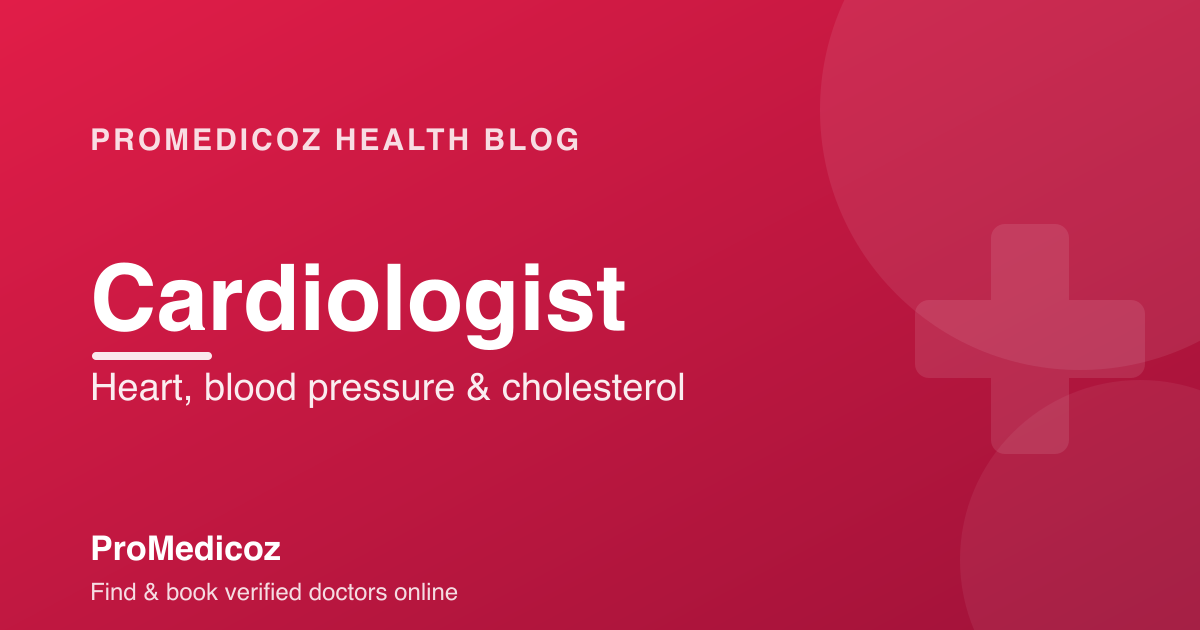
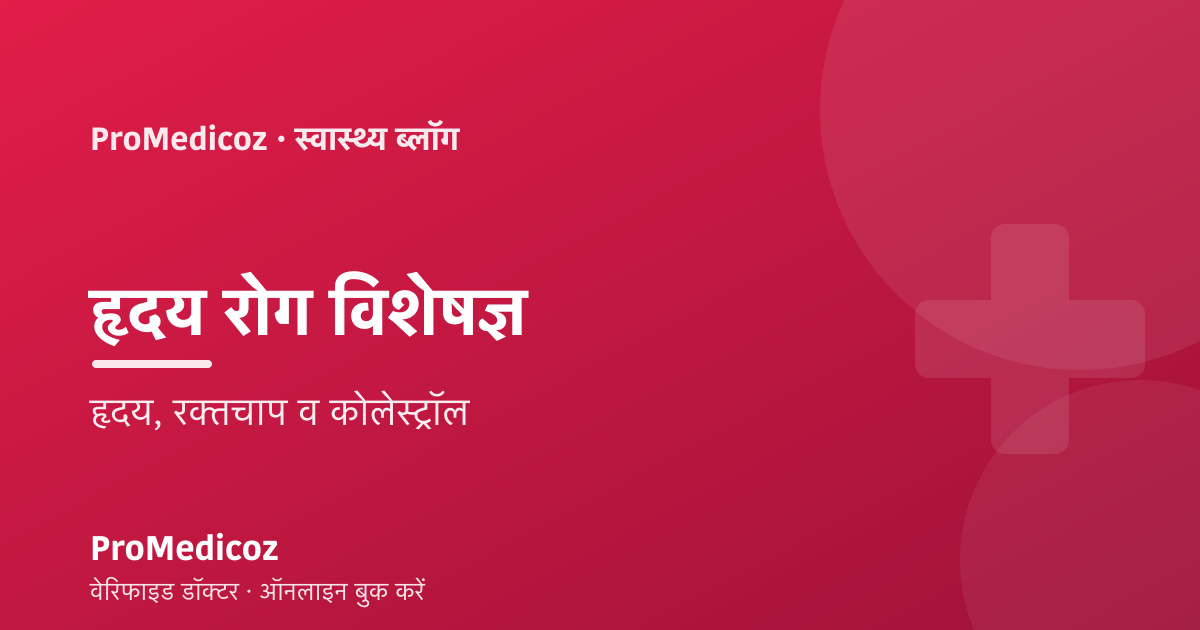
Hindi-first blog share cards + language-aware article share message (Hinglish when reading in Hindi)

Changed region(s): [[0.0617, 0.3921, 0.5858, 0.6937], [0.0617, 0.8444, 0.4008, 0.9651], [0.0617, 0.181, 0.4933, 0.2413]]

diff --git a/client/src/pages/blog/BlogArticle.jsx b/client/src/pages/blog/BlogArticle.jsx
@@ -303,16 +303,26 @@ function BlogArticle() {
   // Share the article (grows reach via word of mouth — the safe alternative
   // to a public comment section on a health blog).
   const articleUrl = `https://www.promedicoz.in/blog/${slug}`;
-  const shareText = article ? `${article.title} — ProMedicoz\n${articleUrl}` : articleUrl;
+  // Hindi-reading users (Hinglish mode) get a warm Hinglish caption so a
+  // WhatsApp-status share reads naturally in their language. The article TITLE
+  // stays English because the blog has no Hindi title (its Hindi version is
+  // Hinglish body text with English headings) — so a Hinglish caption + the
+  // English title is the honest, natural message.
+  const inHindi = lang === 'hi' && hasHindi;
+  const shareText = article
+    ? (inHindi
+        ? `${article.title}\n\nYeh health jaankari apne parivaar aur doston ke saath share karein 🙏\n${articleUrl}`
+        : `${article.title} — ProMedicoz\n${articleUrl}`)
+    : articleUrl;
   const copyLink = async () => {
     trackEvent('share_article', { article_slug: slug, method: 'copy_link' });
-    try { await navigator.clipboard.writeText(articleUrl); toast.success('Link copied!'); }
-    catch { window.prompt('Copy this link:', articleUrl); }
+    try { await navigator.clipboard.writeText(articleUrl); toast.success(inHindi ? 'Link copy ho gaya!' : 'Link copied!'); }
+    catch { window.prompt(inHindi ? 'Yeh link copy karein:' : 'Copy this link:', articleUrl); }
   };
   const nativeShare = async () => {
     trackEvent('share_article', { article_slug: slug, method: 'native_share' });
     if (navigator.share) {
-      try { await navigator.share({ title: article?.title, text: article?.title, url: articleUrl }); return; } catch { /* cancelled */ }
+      try { await navigator.share({ title: article?.title, text: shareText, url: articleUrl }); return; } catch { /* cancelled */ }
     }
     copyLink();
   };
@@ -324,11 +334,13 @@ function BlogArticle() {
   const shareInstagram = async () => {
     trackEvent('share_article', { article_slug: slug, method: 'instagram' });
     if (navigator.share) {
-      try { await navigator.share({ title: article?.title, text: article?.title, url: articleUrl }); return; } catch { /* cancelled */ }
+      try { await navigator.share({ title: article?.title, text: shareText, url: articleUrl }); return; } catch { /* cancelled */ }
     }
     try { await navigator.clipboard.writeText(articleUrl); }
-    catch { window.prompt('Copy this link:', articleUrl); }
-    toast('Link copied — open Instagram and paste it in your Story or bio 📸', { icon: '📸' });
+    catch { window.prompt(inHindi ? 'Yeh link copy karein:' : 'Copy this link:', articleUrl); }
+    toast(inHindi
+      ? 'Link copy ho gaya — Instagram kholein aur apni Story ya bio me paste karein 📸'
+      : 'Link copied — open Instagram and paste it in your Story or bio 📸', { icon: '📸' });
   };
 
   if (!article) {
@@ -525,7 +537,7 @@ function BlogArticle() {
             className="px-4 py-2 text-white rounded-lg text-sm font-medium bg-gradient-to-r from-[#f58529] via-[#dd2a7b] to-[#8134af] hover:opacity-90"
           >📸 Instagram</button>
           <a
-            href={`https://twitter.com/intent/tweet?text=${encodeURIComponent(article?.title ? article.title + ' — ProMedicoz' : 'ProMedicoz')}&url=${encodeURIComponent(articleUrl)}`}
+            href={`https://twitter.com/intent/tweet?text=${encodeURIComponent(article?.title ? `${article.title} — ProMedicoz` : 'ProMedicoz')}&url=${encodeURIComponent(articleUrl)}`}
             onClick={() => trackEvent('share_article', { article_slug: slug, method: 'twitter' })}
             target="_blank" rel="noopener noreferrer"
             className="px-4 py-2 bg-black text-white rounded-lg text-sm font-medium hover:bg-gray-800"
